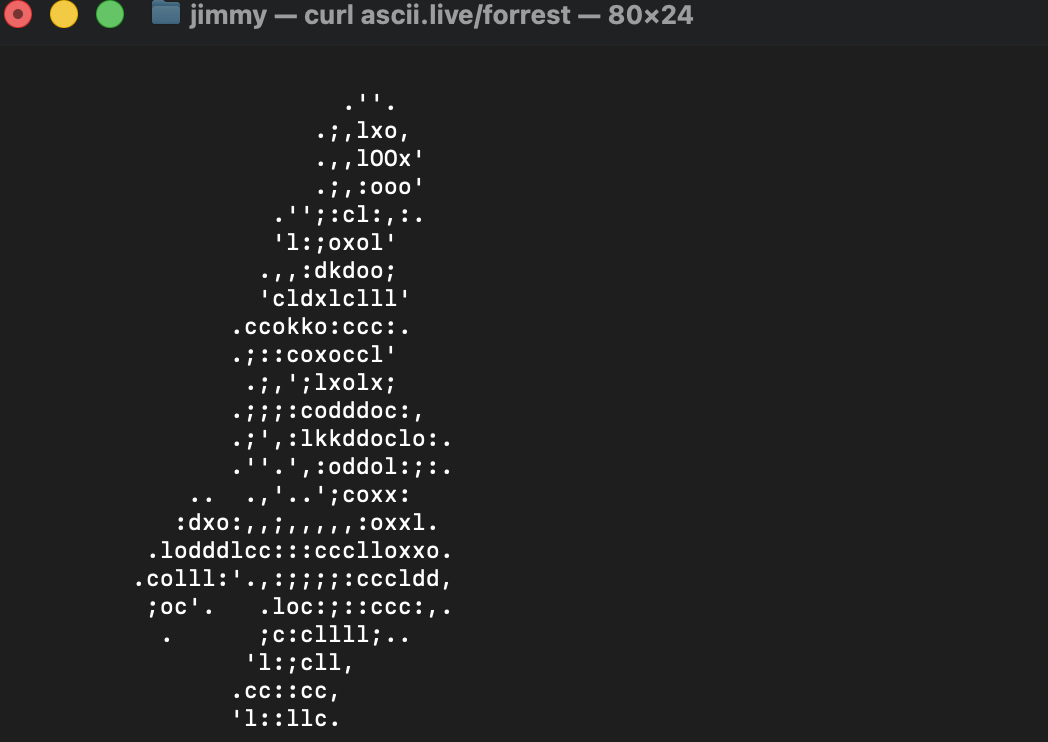
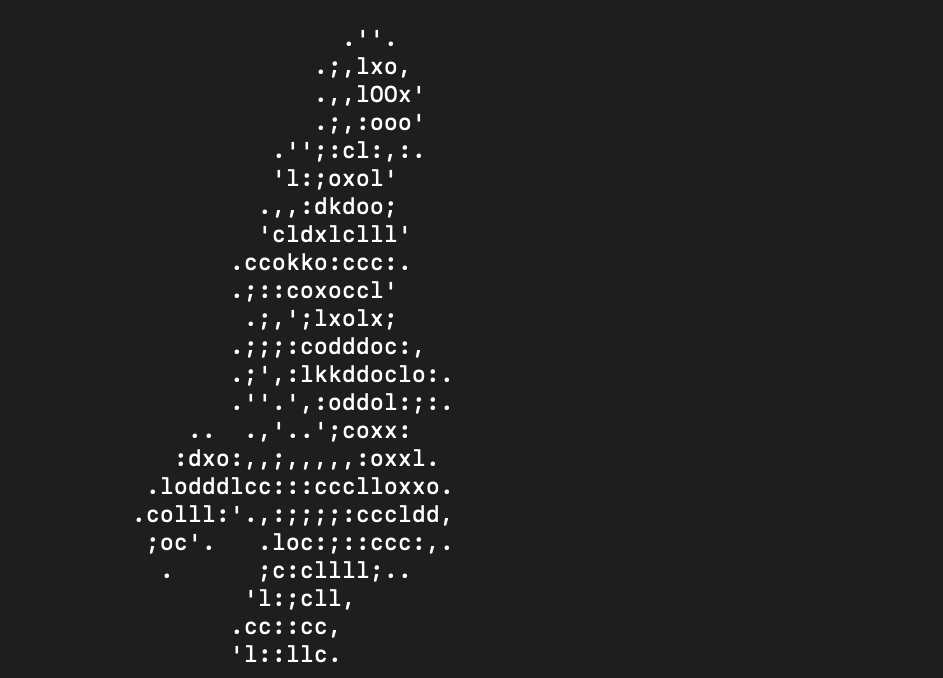
123

Changed region(s): [[0.123, 0.0929, 0.492, 0.9912], [0.0, 0.0, 0.6766, 0.0619]]

diff --git a/journal-pages/week-03.md b/journal-pages/week-03.md
@@ -6,98 +6,82 @@ layout: default
 
 [← Back to Home](../index.md)
 
-# In Class Discussions
-Like I assumed last week, week fours class started with a discussion on AI, we talked about ideas such as how AI might change the future of design, the ethics around it, as well as the sovereignty of AI. Personally I know that AI is going to be a big part of design in the future – as it already is a heavy part of it now, even the university of Auckland has begun teaching the use of AI in our core second year courses. I think that designers should not stay away from AI as a whole, as in our first year we were taught that designers need to keep an open mind and be open to adaptability, and if we were to keep a closed mindset towards AI it just wouldn’t be helpful to us as Designers. I think that AI is alright to use as long as it does not replace your entire Design Process, I think that AI is very helpful to streamline some repetitive processes when designing. Personally I do use Ai features that come with apps such as Figma, photoshop, and premier pro as I find them very useful to help me do things in a matter of seconds that would normally take me a few hours, some notable examples would be the the rotoscoping in Premier Pro, as well as the ai fill in photoshop – these allowing me to streamline simple but long processes to a matter of seconds.
+# In Class Experiment 
+During class in week three we did Live Data collection, we started out by watching a video about a man on the train using a pen and paper to collect the data of the movement of the train. I think this video was really memorable to me as I never really thought about collecting data in this way, this was really different as instead of actively asking questions or actively listening or thinking, he passively just waited and let the movement of the train move him and collected data via that. After watching that video we then begun the actual in class experiments, we first started by going into our terminals and playing around. On my MacBook I first started out by playing around with some commands such as pwd – which got the computer to show which directory im current in, ls – asking the computer what’s in the directory, cd ____ - which if asking for a folder, would take you into a folder,  and finally cd .. – which would go back. This was pretty could as I’ve seen the terminal a lot in my life whether which downloading Minecraft mods, or playing video games, but I’ve never actually known what it did, and being able to experiment with it was really cool. 
 
-## Ollama
-After our talk about AI we then moved on to experimenting with Ollama it was an AI chatbot that was entirely in our terminals. I think this was really cool as it was very similar to ChatGPT and other Ai chatbots I’ve used before, but it was also different as you could see how it was thinking and the way it came upon ideas. Although it did feel slower than other AI chatbots you’d find on the internet I did find it cool how it was just on my terminal once again, and it did seem that the quality was very poor compared to some of the free models you’d find online. I asked it to generate me some code for a landscape in p5, and although it did give me some code, the outcome of the image just wasn’t good.
+## Curl
+After that we learnt about curl which is an open source command line tool which can be used for transferring data over the internet. We first started by copy and pasting 
 
-![Ollama Landscape](../assets/week-04/4-1jpeg)
+-   curl ascii.live/forrest
 
- Since a lot of the class had problems with getting their Ollama downloaded we quickly moved to the second part of the in class experiment. 
+into our command terminal which showcased a running man in our terminal. It was pretty cool to see this play out in our terminal as it was something that we can do offline. 
 
-## NotebookLM
-After Ollama we then went to an website called NotebookLM, we started out by adding some sources to the website, some of the things I included was my making journal, a previous website that I’d worked on, as well as an article from high school that was slightly related to the website. Then we were told to add a new text file called context.md and in it add three sentences
+![Forrest Running](../assets/week-03/3-1.png)
 
--	The experiment you found most interesting and why
--	A theme or idea you keep coming back to
--	Something you're curious about but haven't had a chance to explore yet.
+After that we then tried using 
+-   curl wttr.in
 
-I tried this but some reasons it wouldn’t accept my file so I just decided to entire the information manually and was told that it would work like that too. So I entered the following information 
--	I found most interesting was the second one, creating a data visualisation on p5.
--	A theme I keep coming back to the use of technology within my designs, and my overreliance of it sometimes
--	Something that I’m curious about is motion design
+This actually didn’t work in class for some reason, but after the class I went home and on my home Wi-Fi it did work, and it generated a full weather report for the next three days, which again was pretty cool to see as it gave all the information needed in a well formatted way without too much clutter. Also it was pretty cool once again that it was all just taken from my computer and curl. We also then tried to filter the data which was done with the following command lines. 
 
-After that we were tasked to ask it the following questions
+-   curl "wttr.in/Auckland?format=3"
+-   curl "wttr.in/Auckland?format=4"
+-   curl "wttr.in/Auckland?format=%l:+%t+%c"
+-   curl "wttr.in/Auckland?format=%l:+%t+%h+%w"
 
--	"If my sources were documentation for a design project, what would the final outcome be?"
--	"What do my sources suggest I care about?"
--	"Identify a provocation hidden in my sources"
--	"What would someone who disagrees with the ideas in my sources argue?"
--	"Which of my sources are you drawing on for that, and which are you ignoring?"
+The following codes and the meaning
 
-And it came up with the following responses:
--	My Final Outcome would be an interactive data-driven digital platform – most likely a website or app. 
--	Based on the sources it would suggest that I cared about things such as technical design innovation, and dedicated community service. As well it suggested that I had care for UX/UI design, technical skill mastery, and creative experimentation
--	 One hidden provocation that it found was the tenison between the technical automation of design, and the deeply human nature of humanitarian service. 
--	Something that it said it would argue is institutionalization of altruism and the technical reduction of human connection. Making points such as Technical Reductionism Vs Human Integrity, and the Ethics of using Service as a “Design Playground”
--	It seemed to focus a lot more on my sources for my service awards, Charity website pages, and making journal, and it ignored other names on the service awards lists, as well as bank details to donate on the charity website.
+-   %l – Location
+-   %t – Temperature
+-   %c – Weather Condition (Displayed as an emoji)
+-   %h – Humidity 
+-   %w – Wind 
+-   %s – Sunrise
+-   %u – UV Index – 1-12 
 
-Afterwards we were also tasked to generate an audio overview and give it a listen to. The thing that I found the most surprising element was how the overview managed to bridged the gap between my past in high school getting my service colours and my current identity as a design student at university. Hearing the hosts connect the "outstanding contributions" mentioned in the school news – such as volunteering at local hospitals or foodbank, to my technical goals in DES240 was a perspective I hadn't fully articulated myself. It highlighted that my interest in UX/UI design isn't just a career path, but a continuation of the integrity and passion noted by Sir David Moxon in the Solomon Islands Medical Mission website.
-### What it Got Wrong
-The overview occasionally struggled with the noting the difference between the $88,000 raised by the school community and my specific making journal. It seemed to imply that the money my high school helped raised were a direct result of the data representation experiments I’m currently doing at uni, even though the sources I added suggest the fundraising is an established annual effort by my school community. Additionally, while it correctly identified my "growing passion for motion design," it overestimated how much of that has been integrated into the SIMMNZ project so far, given that I have only just recently started learning about it and how to use After Affects.
+![Auckland Weather](../assets/week-03/3-2.png)
 
-# Individual Experiment 
-For this weeks individual experiment, we were tasked with getting a csv database from catalogue.data.govt.nz and then enter it into an AI chatbot, so I got a database about all the schools in New Zealand and put it into ChatGPT. I asked ChatGPT questions such as 
+This was pretty interesting, I think that It was pretty cool how the simple codes could also be added together, again it was pretty cool to see that all of this was achievable through just the command terminal in my computer. After that we then used curl to look up words via the dictionary using the command line.
 
--	What could you tell me about this data 
--	Is there anything that is missing from this data that could be useful for making inferences and that could be helpful overall
--	Do you know when this data was taken
--	Would you say there is any bias to consider in this dataset
--	Can you visualise this data for me via a graph
-The AI told me about how the dataset contains a data on every school in New Zealand, with a row of 2,578, and 50 different coloumns, with information such as 
--	School Ids
--	School Name
--	Status
--	Location Data
--	Type
--	Structure
--	Roll 
--	Authority 
--	And more
-The AI gave me a clear indication on what I was able to find with this data, but it also indicated how there was some crucial data that would be important for answering questions and making inferences. Some of this data included things such
--	Student outcomes (NCEA, literacy, numeracy, ect) 
--	Teaching Staff Data 
--	Funding
--	Trends
-ChatGPT told me that thing data would be very useful as with the current data you can describe the schools in New Zealand, but you wouldn’t be able to judge their performances, and if any schools needed extra help compared to other schools. As well ChatGPT brought up an interesting point that the dataset is only a snapshot of trends, and not a full history, so that made me wonder when this dataset was actually taken. I asked ChatGPT about it and it indicated that based on what it could tell it was recent and that dataset was actually created as I downloaded it, which makes me believe that either the catalogue data website was updated live, or the dataset was taken very recently such early 2026, as it indicated there were schools that been opened starting 2026.  Afterwards I asked it if there were any bias to consider within this dataset, and it gave me some interesting points. 
+-   curl https://api.dictionaryapi.dev/api/v2/entries/en/design
 
-I think the first one was that the data was purely administrative, and there was no data from lived in experience from the schools, so even though a school may look good on paper, but if you were to ask students the school may be performing poorly, which is another reason why filling in the gaps in data such as the students’ academic results would be useful. Another thing that it brought up again was the fact that the data was only a snapshot and not a full history, which would hide things such as if the school was growing or shrinking in roll, or if there was temporary issues with the school it would be frozen in that point of time. 
-Afterwards I asked ChatGPT to generate me a photo of the data for me to evaluate it first gave me this photo:
+This generated a large box of text, which was kind of hard to understand, but it seemed to generate everything from the definition, to the phonetics, and synonyms of the word. The reason why it generated such a large box of text that was slightly hard to read was because to gave us the whole Json format, which is normally used on the web, so when transferred on our terminals it looked a bit weird. 
 
-![ChatGPT Photo](../assets/week-04/4-2. png)
+## Weather Visualisation 
+After experimenting with curl in the terminal, we then moved onto visualising the weather, this was done in p5 once again, alongside an API – a structured way for programs to communicate and exchange data. The sketch we opened in p5 was using The Open Meteo API which gathered the data from Auckland allowing us to map its properties, such as the humidity of the air changing the background colour of the canvas, the red rectangle in the corner as the wind speed, and the size of the circle as the temperature times by ten. I thought this was really cool way to display the data with images, I know this course is all about finding ways to display data that is different and unique. I find that even halfway into the semester this course still gets me thinking in ways that I wouldn’t have thought about in the past and visualising data and ideas as a whole in new and creative ways that pre semester me never would’ve even considered.
 
-This first image was okay, it seemed really cluttered, and honestly it was quite hard to get information of it, or make any key critical evaluations from the data. So I asked it to remove a few of the more useless graphs, as well to make the data more clear so you could evaluate it and make assumptions and overall just a easier way to read it. This is the result of that next prompt 	
+## Live Data Protocols
+For the final bit in class, we got into pairs – or in my case a group of three, and then created a data protocol - which is a set of rules for gathering live data. For our protocol we had to specify three things.
 
- ![ChatGPT Photo](../assets/week-04/4-3. png)
+-   Source: what live data to observe (e.g. sounds in the room, a live transport tracker on your phone)
+-   Frequency: how often to check (e.g. every 10 seconds, every minute)
+-   Mapping: how to record each observation as a mark, shape, or action
 
-This second data set visualisation was very nice as it was so much more clearer, only having three different graphs, as well at the top it gave me some nice clear important information such as the median school roll, and total schools. Another key feature in this visualisation is that its more laid out like you would find in academic worksheets or papers, which I find much more useful as someone who studied Statistics in the past. After evaluating this visualisation I then asked ChatGPT to give me a third one but I wanted this one to be even more different from the first two, more specifically a map of New Zealand with all the schools. With the outcome being:
+My group came up with the following:
 
-![ChatGPT Photo](../assets/week-04/4-4.png)
+-   Source:  How many tables has atleast one person talking
+-   Frequency: Every 10 Seconds
+-   Mapping: Tally 
 
-Obviously this map didn’t work from ChatGPT so I attempted two more times refining it with each prompt getting more and more refined, trying to slowly explain to ChatGPT that there was no New Zealand, and the datapoints weren’t actually showing up, but no luck. Eventually I told ChatGPT to completely ignore the previous questions and just to generate a map of New Zealand with all the datapoints, and that actually somehow worked, below is what it generated  
+![My group Protocol](../assets/week-03/3-3.jpeg)
 
-![ChatGPT Photo](../assets/week-04/4-5.png)
+Then afterwards we swapped with another group and their protocol had the following:
 
-With that being generated I decided to move on to something slightly different, I asked ChatGPT to generate me a infographic poster, and the first generation was just the map photo with a title, and that was about it, so I asked it to generate me a graphical poster, with images and cool text. It kept giving me basically the same thing with just the map and then some text, which was good but it really wasn’t what I was after. 
+-   Source: Sounds on a street while walking 
+-   Frequency: Every 10 Seconds
+-   Mapping: Lines on a paper
 
-## Critical Evaluation
-I think AI has immense potential to the future of design, it has the possibilities to streamline design processes, and be used as a tool to make our lives as designers so much easier, without fully replacing us and our work. However I do also believe at its current stage AI is not sustainable enough to work out in the long run, issues with cost to run via hardware, as well as the wastage of water, which goes against our UoA design kawa of kaitiakitanga. As well the ethical concerns are a big factor that we had to consider during our DES200 course. During this weeks work we got to learn and think about about all of this via our experimentation with AI. 
+Now unfortunately for us the group we got paired with didn’t follow the instructions properly as we were told to create a protocol for data we can collect in the classroom, so we updated their source to be, sounds we can hear in the classroom. We were sort of confused by the mapping, as it was kind of vague, what we ended up with was, we would draw the lines shape based on how the sound felt/sounded like, e.g. loud sudden sound, sharp zigzag big line. The way we timed the frequency was by using a stopwatch on someone’s phone that way we could accurately measure the frequency.
 
-I found that in the case of ChatGPT often when asked for something you would have to either ask multiple times, or refine your prompt a few times before getting a result that you were even slightly happy with. I noticed that for the first generation of the visual generations it defaulted to a graph, which makes sense as the default way I would visualise data like that. Comparing results with friends in the class it seemed that ChatGPT would default to graphs for most people when just asked to visualise this data. It also seemed that I had to correct and had to redirect it in the direction I wanted to, i.e asking for less graphs to make it legible and useable, also during my creation of a map visual graph, it seemed to not be able to work out how to do it until I had it start over from scratch which was really strange and annoying. 
+![Other Group Protocol](../assets/week-03/3-4.jpeg)
 
-One interesting thing I noted when generating the third data visual – the poster, was the fact that he kept thinking that the poster was for an assignment, which is why it kept generating me educational posters – when I was going more so for looks than data. I think the reason why it did this is because of my history with ChatGPT, it knows that I am a uni student and it knows that I often use it to help me with assignments. It also makes me consider any bias it made when it gave me my previous outputs and if they were at all influenced via my history. With that in mind I do wonder what would happen if I were to try this experiment again either on a new account, or not logged in at all. 
+After that we compared with the other group, and they followed our protocol to a t and basically did it the way we intended with a tally for how many voices they heard. For them we told them we had to change it and they realised once we begun that theirs probably didn’t work. They did like how captured the data as it was about the same as what they intended for the mapping, which was good as that meant that the rest of their protocol was good and clear.
 
-I think that the map visual was probably the most interesting to work with as it really opened my eyes to the limits that ChatGPT has, and how often times it wont get it right straight away a lot of times, it really got me to consider if anything else in the past was wrong, and I haven’t been thinking critically enough to consider that it was wrong. I now really think that ChatGPT at most is simple tool, I don’t think it should be relied upon heavily for more complex design operations, such as for graphic design, or even for designing with data.  
+# Independent Study 
+For this independent study, I created a p5.js sketch that showcases the sun’s position over New Zealand during the day. The sketch combines a simplified map of the North and South Islands with a dynamic sun that moves according to real-world sunrise and sunset times for Auckland. To make the sketch, I first drew New Zealand using simple circles, while I got the basics working, I wasn’t really too concerned about how they looked to begin with as I wanted to make sure that the Api would actually work first. I then connected to the Sunrise-Sunset API to retrieve the day’s sunrise and sunset times. These times were mapped to the sun’s horizontal movement across the canvas, to be honest I did have to get some help from ChatGPT to actually visualise it properly, but eventually I was able to make it slowly go across the canvas. I really like how the sun is visualised by the transparent circle, and it works a lot better than just the numbers of the suns position/time of sunrise and sunset. 
 
-I think that if I were to do this independent study without AI it would’ve taken me a lot longer, but I think that the outputs would’ve been more refined with its data representation and looked a look better overall. I think that’s the overall consensus that I’ve come up with Ai, Its very useful at the start of the design process, but lacks depth later on. I think that an example would be the map visual, it took a long time to get AI to generate that image but if I were to do it without AI, I probably wouldn’t have tried to do that map, and instead I probably would’ve used another tool such as NZ Grapher to give me some visualisations of that data. 
+![Bad New Zealand](../assets/week-03/3-6jpeg)
+
+After getting it to work I then wanted to make New Zealand a bit more accurate so I got some help from ChatGpt just to streamline the process a bit. It gave me a decent looking New Zealand, but I did have to change a few of the prompts, to make it more accurate; alongside changing some of the proportions manually.  Afterwards I got this final sketch.
+ ![Good New Zealand](../assets/week-03/3-7jpeg)
+
+I think this was fun to create, it was similar to what we did in class with the use of the weather Api as well as the ISS Api. However I also think that this week’s independent study could’ve been done better, I think that it was completed to a high standard but I also feel that I’ve been relying on AI a bit in week 2 and a decent amount in week 3, I know going forwards I should try and rely less on AI as while I’ve reflected on this week’s experiments I think that as soon as I got stuck I went straight to asking AI what to do, instead of thinking for myself. I know that this is definitely hindering my creative processes, however I think it is good that I’m noticing this and also being mindful of it as I also know that looking at the course schedule, week 4 is going to focus on AI. 

diff --git a/journal-pages/week-04.md b/journal-pages/week-04.md
@@ -19,7 +19,7 @@ After our talk about AI we then moved on to experimenting with Ollama it was an 
 ## NotebookLM
 After Ollama we then went to an website called NotebookLM, we started out by adding some sources to the website, some of the things I included was my making journal, a previous website that I’d worked on, as well as an article from high school that was slightly related to the website. Then we were told to add a new text file called context.md and in it add three sentences
 
--	He experiment you found most interesting and why
+-	The experiment you found most interesting and why
 -	A theme or idea you keep coming back to
 -	Something you're curious about but haven't had a chance to explore yet.
 
@@ -47,6 +47,59 @@ Afterwards we were also tasked to generate an audio overview and give it a liste
 ### What it Got Wrong
 The overview occasionally struggled with the noting the difference between the $88,000 raised by the school community and my specific making journal. It seemed to imply that the money my high school helped raised were a direct result of the data representation experiments I’m currently doing at uni, even though the sources I added suggest the fundraising is an established annual effort by my school community. Additionally, while it correctly identified my "growing passion for motion design," it overestimated how much of that has been integrated into the SIMMNZ project so far, given that I have only just recently started learning about it and how to use After Affects.
 
-## AI Usage Statement
+# Individual Experiment 
+For this weeks individual experiment, we were tasked with getting a csv database from catalogue.data.govt.nz and then enter it into an AI chatbot, so I got a database about all the schools in New Zealand and put it into ChatGPT. I asked ChatGPT questions such as 
 
-*Document any use of AI tools under an AI Usage Statement heading. Explain which tools you used and describe how you used them. Reference any AI-generated content (see [QuickCite](https://auckland.libguides.com/referencing-generative-ai-tools) for guidance).*
+-	What could you tell me about this data 
+-	Is there anything that is missing from this data that could be useful for making inferences and that could be helpful overall
+-	Do you know when this data was taken
+-	Would you say there is any bias to consider in this dataset
+-	Can you visualise this data for me via a graph
+The AI told me about how the dataset contains a data on every school in New Zealand, with a row of 2,578, and 50 different coloumns, with information such as 
+-	School Ids
+-	School Name
+-	Status
+-	Location Data
+-	Type
+-	Structure
+-	Roll 
+-	Authority 
+-	And more
+The AI gave me a clear indication on what I was able to find with this data, but it also indicated how there was some crucial data that would be important for answering questions and making inferences. Some of this data included things such
+-	Student outcomes (NCEA, literacy, numeracy, ect) 
+-	Teaching Staff Data 
+-	Funding
+-	Trends
+ChatGPT told me that thing data would be very useful as with the current data you can describe the schools in New Zealand, but you wouldn’t be able to judge their performances, and if any schools needed extra help compared to other schools. As well ChatGPT brought up an interesting point that the dataset is only a snapshot of trends, and not a full history, so that made me wonder when this dataset was actually taken. I asked ChatGPT about it and it indicated that based on what it could tell it was recent and that dataset was actually created as I downloaded it, which makes me believe that either the catalogue data website was updated live, or the dataset was taken very recently such early 2026, as it indicated there were schools that been opened starting 2026.  Afterwards I asked it if there were any bias to consider within this dataset, and it gave me some interesting points. 
+
+I think the first one was that the data was purely administrative, and there was no data from lived in experience from the schools, so even though a school may look good on paper, but if you were to ask students the school may be performing poorly, which is another reason why filling in the gaps in data such as the students’ academic results would be useful. Another thing that it brought up again was the fact that the data was only a snapshot and not a full history, which would hide things such as if the school was growing or shrinking in roll, or if there was temporary issues with the school it would be frozen in that point of time. 
+Afterwards I asked ChatGPT to generate me a photo of the data for me to evaluate it first gave me this photo:
+
+![ChatGPT Photo](../assets/week-04/4-2. png)
+
+This first image was okay, it seemed really cluttered, and honestly it was quite hard to get information of it, or make any key critical evaluations from the data. So I asked it to remove a few of the more useless graphs, as well to make the data more clear so you could evaluate it and make assumptions and overall just a easier way to read it. This is the result of that next prompt 	
+
+ ![ChatGPT Photo](../assets/week-04/4-3. png)
+
+This second data set visualisation was very nice as it was so much more clearer, only having three different graphs, as well at the top it gave me some nice clear important information such as the median school roll, and total schools. Another key feature in this visualisation is that its more laid out like you would find in academic worksheets or papers, which I find much more useful as someone who studied Statistics in the past. After evaluating this visualisation I then asked ChatGPT to give me a third one but I wanted this one to be even more different from the first two, more specifically a map of New Zealand with all the schools. With the outcome being:
+
+![ChatGPT Photo](../assets/week-04/4-4.png)
+
+Obviously this map didn’t work from ChatGPT so I attempted two more times refining it with each prompt getting more and more refined, trying to slowly explain to ChatGPT that there was no New Zealand, and the datapoints weren’t actually showing up, but no luck. Eventually I told ChatGPT to completely ignore the previous questions and just to generate a map of New Zealand with all the datapoints, and that actually somehow worked, below is what it generated  
+
+![ChatGPT Photo](../assets/week-04/4-5.png)
+
+With that being generated I decided to move on to something slightly different, I asked ChatGPT to generate me a infographic poster, and the first generation was just the map photo with a title, and that was about it, so I asked it to generate me a graphical poster, with images and cool text. It kept giving me basically the same thing with just the map and then some text, which was good but it really wasn’t what I was after. 
+
+## Critical Evaluation
+I think AI has immense potential to the future of design, it has the possibilities to streamline design processes, and be used as a tool to make our lives as designers so much easier, without fully replacing us and our work. However I do also believe at its current stage AI is not sustainable enough to work out in the long run, issues with cost to run via hardware, as well as the wastage of water, which goes against our UoA design kawa of kaitiakitanga. As well the ethical concerns are a big factor that we had to consider during our DES200 course. During this weeks work we got to learn and think about about all of this via our experimentation with AI. 
+
+I found that in the case of ChatGPT often when asked for something you would have to either ask multiple times, or refine your prompt a few times before getting a result that you were even slightly happy with. I noticed that for the first generation of the visual generations it defaulted to a graph, which makes sense as the default way I would visualise data like that. Comparing results with friends in the class it seemed that ChatGPT would default to graphs for most people when just asked to visualise this data. It also seemed that I had to correct and had to redirect it in the direction I wanted to, i.e asking for less graphs to make it legible and useable, also during my creation of a map visual graph, it seemed to not be able to work out how to do it until I had it start over from scratch which was really strange and annoying. 
+
+One interesting thing I noted when generating the third data visual – the poster, was the fact that he kept thinking that the poster was for an assignment, which is why it kept generating me educational posters – when I was going more so for looks than data. I think the reason why it did this is because of my history with ChatGPT, it knows that I am a uni student and it knows that I often use it to help me with assignments. It also makes me consider any bias it made when it gave me my previous outputs and if they were at all influenced via my history. With that in mind I do wonder what would happen if I were to try this experiment again either on a new account, or not logged in at all. 
+
+I think that the map visual was probably the most interesting to work with as it really opened my eyes to the limits that ChatGPT has, and how often times it wont get it right straight away a lot of times, it really got me to consider if anything else in the past was wrong, and I haven’t been thinking critically enough to consider that it was wrong. I now really think that ChatGPT at most is simple tool, I don’t think it should be relied upon heavily for more complex design operations, such as for graphic design, or even for designing with data.  
+
+I think that if I were to do this independent study without AI it would’ve taken me a lot longer, but I think that the outputs would’ve been more refined with its data representation and looked a look better overall. I think that’s the overall consensus that I’ve come up with Ai, Its very useful at the start of the design process, but lacks depth later on. I think that an example would be the map visual, it took a long time to get AI to generate that image but if I were to do it without AI, I probably wouldn’t have tried to do that map, and instead I probably would’ve used another tool such as NZ Grapher to give me some visualisations of that data. 
+
+